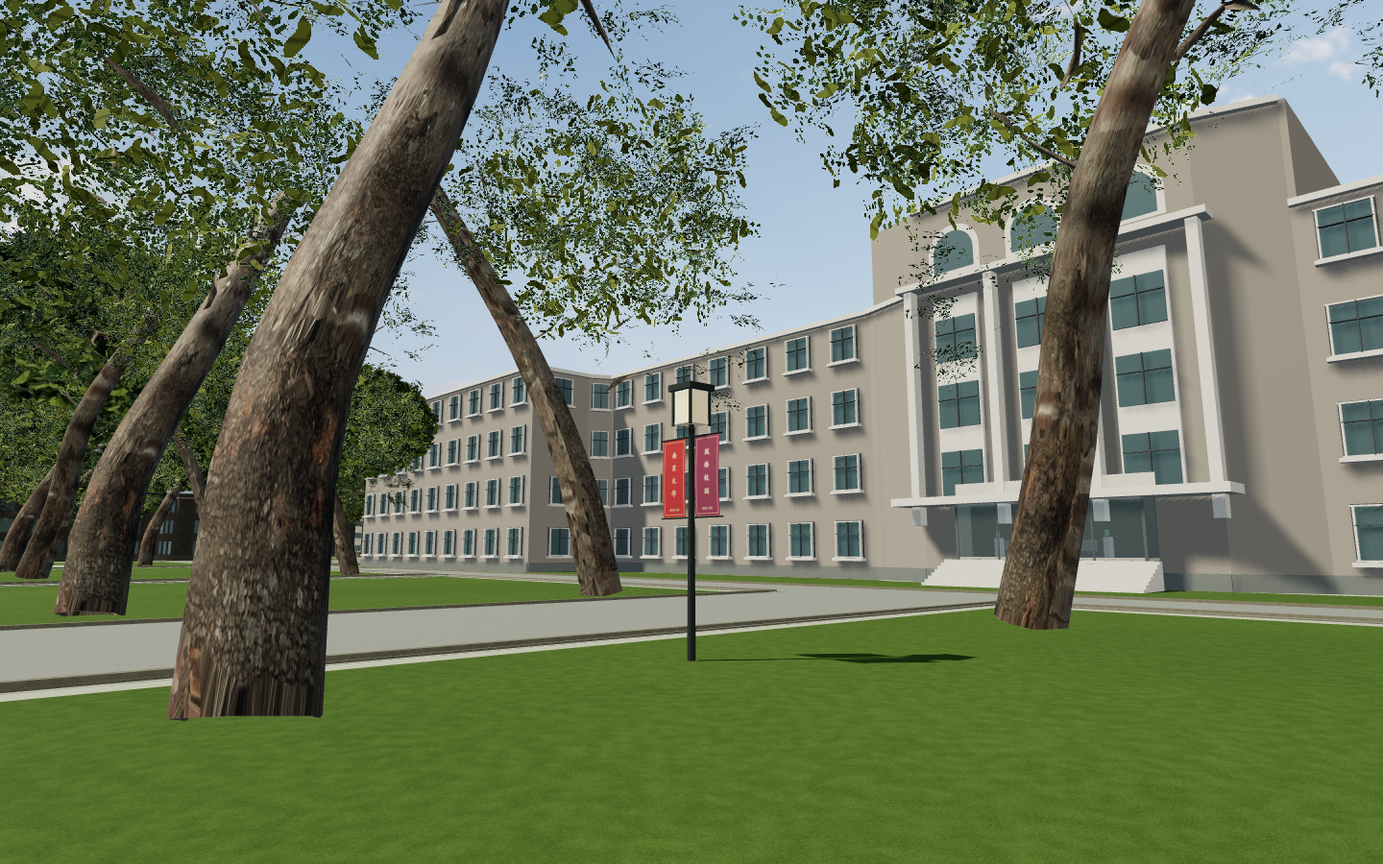
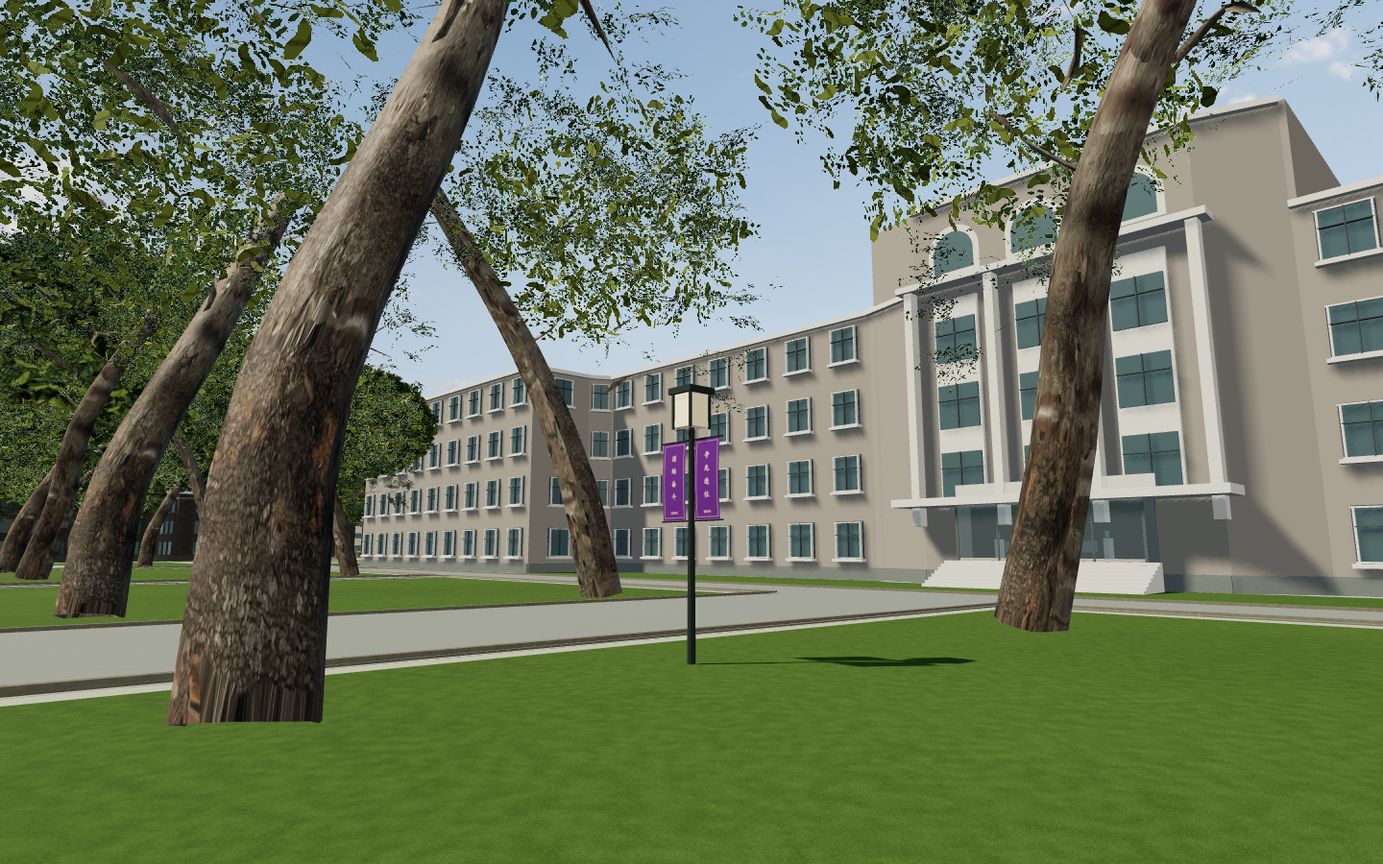
Add grounded jump, official campus stories and default raised flag

diff --git a/src/world/place-stories.ts b/src/world/place-stories.ts
@@ -1,0 +1,31 @@
+export type PlaceStory={summary:string;detail:string;source:string;sourceLabel:string};
+const vr='https://vr.nju.edu.cn/newUI/#/';
+const story=(summary:string,detail:string,source=vr,sourceLabel='南京大学官方校园导览'):PlaceStory=>({summary,detail,source,sourceLabel});
+/** Concise paraphrases of the named official source. Unverified places fall
+ * back to existing wayfinding text; no invented dates or building histories. */
+export const placeStories:Record<string,PlaceStory>={
+ '北大楼':story('北大楼建成于1919年，又称赛弗伦斯楼，最初是金陵大学行政楼，后来用于文学院教学。赛珍珠、胡小石等学者曾在这里执教。','中央塔楼、中式屋顶和西式体量相结合。百余年里，这座楼既是校园的视觉中心，也成为许多南大人与母校联结的记忆。','https://alumni.nju.edu.cn/aa/0a/c21691a502282/page.htm','南京大学校友网 · 北大楼百年故事'),
+ '东大楼':story('东大楼的前身是金陵大学科学馆，建成于1912年，是鼓楼校园早期建筑之一。','它与西大楼分列北大楼前庭两侧。中式屋顶和近代教学楼的结构组合，体现了金陵大学早期校园建筑的共同风格。','https://www.nju.edu.cn/info/3191/152251.htm','南京大学官网 · 金陵大学光阴的故事'),
+ '西大楼':story('西大楼建成于1925年，原名斐义理楼，曾供金陵大学农学院使用。','它与北大楼、东大楼共同构成校园最具辨识度的历史建筑群；观察屋顶、砖墙和楼体组合，可以看到中西建筑语言的结合。','https://www.nju.edu.cn/info/3191/152251.htm','南京大学官网 · 金陵大学光阴的故事'),
+ '大纛坪':story('这根旗杆源于金陵大学师生的一次爱国行动。1934年，邻近的日本公使馆竖杆悬旗，31位金大学生发起募捐，号召全校建起更高的国旗杆。1935年旗杆落成，以迎风国旗表达师生维护民族尊严的决心。','旗杆原在大礼堂南侧，1964年因建设教学楼迁至西南楼北侧。1995年抗战胜利50周年时，这里辟为“大纛坪”，并立碑记录这段历史。'),
+ '大礼堂':story('大礼堂于1920年投入使用，是金陵大学旧址的一部分。中式屋顶、灰色筒瓦与明代城墙砖构成了它熟悉的轮廓。','这里长期承载学校的重要会议、庆典和文艺演出。可留意屋顶两侧耳房与入口木门的传统纹样；建筑现为全国重点文物保护单位。'),
+ '教学楼／郑钢楼':story('北园教学楼建于1964年，位于校园中轴线上，正对汉口路校门。一届届学生在这里上课、自习，留下了共同的校园记忆。','为感谢郑钢先生捐资支持修缮改造，学校将其命名为“郑钢楼”。'),
+ '校史博物馆':story('这座馆舍原为金陵大学图书馆，由建筑师杨廷宝设计，1937年12月建成。它最初曾作为难民收容所，庇护两千余名难民。','中式重檐与当时先进的钢筋混凝土结构结合，是近代“中国固有式”建筑的代表。今天，校史博物馆在这里保存和讲述南大的历史。'),
+ '图书馆':story('鼓楼图书馆在原金陵大学图书馆馆舍基础上扩建，现代部分建于20世纪70年代。它与历史馆舍相连，书库连接南、西两翼。','馆内设有文理科借阅、报刊阅览、学科服务等空间。这里的现代阅览馆与原馆改设的校史博物馆，应分别辨认。'),
+ '蒙民伟楼':story('蒙民伟楼位于鼓楼校区北园东南角，曾是计算机实验和教学活动的重要场所。','楼名纪念蒙民伟先生及香港信兴集团对学校建设的捐助。内部功能会随学校发展调整，现阶段游戏只开放室外漫游。'),
+ '汉口路校门':story('汉口路校门建于1959年国庆期间，位于鼓楼校区南、北园之间。三开间浅灰色大门和毛体“南京大学”校名，是许多人走进南大的第一印象。','两侧立柱后来增添“团结紧张”“严肃活泼”字样。2018年，校门列入南京市第二批历史建筑保护名录。'),
+ '广州路校门':story('广州路校门位于鼓楼校区南园南部，地址为广州路18号，连接南园与广州路。','从门外可辨认石材牌墙上的“南京大学”和“广州路门”中英文校名；进入后可沿南园道路前往宿舍与教学区域。'),
+ '新教学楼':story('新教学楼位于教学楼东侧、东大楼与东南楼之间。经智慧教室改造后，它于2023年春季学期投入公共教学使用。','官方改造资料记载主楼五层、辅楼两层。智慧教室配置服务于讨论、授课和多样化教学。','https://jw.nju.edu.cn/33/b6/c24683a603062/page.htm','南京大学本科生院 · 教学楼位置说明'),
+ '南教学楼':story('南教学楼位于汉口路校门内警卫室东侧、图书馆南侧，2023年春季学期投入公共教学使用。','它与南园里的“南园教学楼”是两栋不同的建筑；从汉口路门进入北园后向右，可沿馆舍南侧道路到达。','https://jw.nju.edu.cn/33/b6/c24683a603062/page.htm','南京大学本科生院 · 教学楼位置说明'),
+ '知行楼':story('知行楼由1940—1945级原中央大学校友集体筹款助建，1992年建成，用于校友相聚。','楼名呼应陶行知先生“行是知之始，知是行之成”的理念，寄托知行合一的教育理想。'),
+ '东南楼':story('东南楼建于1953年，由南京大学建筑系教授杨廷宝设计，是新中国较早的民族式大屋顶教学楼。','其一层后来改为医学院临床模拟教学中心；2008年入选首批南京市重要近现代建筑。'),
+ '南园教学楼':story('南园教学楼位于南园中部、喷泉南侧。这里曾是鼓楼学子自修和参加毕业生招聘会的熟悉场所。','官方校园导览记载它后来用于终身教育学院办公教学；请与汉口路门内的“南教学楼”区分。'),
+ '松林楼':story('松林楼位于南园正门东侧，是一座三层砖混结构建筑，曾供相关院系教学和办公使用。','官方校园导览记载它后来作为校财务处办公地点。临园一侧的树荫与休憩空间连成安静的校园角落。'),
+ '南园八舍':story('南园八舍建于20世纪50年代，90年代曾加层改造，位于南园并面向广州路校门方向。','它曾被称为“华东最大女生楼”，是许多校友记忆中南园生活的重要一站。'),
+ '斗鸡闸':story('斗鸡闸是图书馆西北侧一座西班牙风格别墅，1934年兴建，毁于战火后于1945年重建。','五个相连拱门、米黄色外墙与蓝瓦屋顶构成鲜明特征。它现为江苏省文物保护单位。'),
+ '南园喷泉':story('南园喷泉位于宿舍群的中轴线上，是南园生活区的一处公共景观。','喷泉和周围绿地连接宿舍与校园道路，也是学习生活之外停留休息的地方。'),
+};
+export function getPlaceStory(name:string,fallback=''){
+ const key=name==='校史馆'?'校史博物馆':name==='教学楼丨郑钢楼'?'教学楼／郑钢楼':name==='广州路门'?'广州路校门':name;
+ return placeStories[key]??story(fallback||`这里是校园地图标注的${name}。`, '该处的详细校史介绍仍待补充；暂不开放室内。');
+}

diff --git a/index.html b/index.html
@@ -27,9 +27,10 @@
         <div class="location"><span class="location-line"></span><div><span id="location-name">北大楼</span><small>南京大学 · 鼓楼校区</small></div></div>
         <nav class="hud-actions" aria-label="游戏操作"><button id="map-open" aria-label="校园地图">⌖<span>地图 M</span></button><button id="flight-toggle" aria-label="起飞或降落">↗<span id="flight-label">起飞 F</span></button><button id="world-open" aria-label="时间与天气" title="时间与天气 T">◷<span id="clock-chip">15:00 · 晴</span></button><button id="photo-open" title="拍照模式 P" aria-label="拍照模式">▣<span>拍照</span></button><button id="settings-open" aria-label="打开设置">☷<span>设置</span></button></nav>
         <div class="compass" aria-label="方向"><span id="compass-arrow">↑</span><small>N</small></div>
-        <div id="hint" class="hint"><kbd>W A S D</kbd> <span id="movement-label">行走</span> <span>·</span> <kbd>Shift</kbd> 加速 <span>·</span> <kbd>V</kbd> 视角 <span>·</span> <kbd>P</kbd> 拍照</div>
+        <div id="hint" class="hint"><kbd>W A S D</kbd> <span id="movement-label">行走</span> <span>·</span> <kbd>Shift</kbd> 加速 <span>·</span> <kbd>Space</kbd> <span id="space-label">跳跃</span> <span>·</span> <kbd>V</kbd> 视角 <span>·</span> <kbd>P</kbd> 拍照</div>
         <div id="flight-hud" class="flight-hud" hidden><span id="flight-state">滑翔中</span><strong id="flight-altitude">26 m</strong><small>空格上升 · Ctrl 下降 · F 降落</small></div>
         <div id="boundary-hint" class="boundary-hint" hidden>已接近当前开放区域边缘，请转向校园</div>
+        <button id="place-about" class="place-about" hidden></button>
         <button id="interact" class="interact" hidden><kbd>E</kbd> <span>坐一会儿</span></button>
         <button id="resume" class="resume" hidden>点击画面，继续漫步</button>
 <div id="football-hud" hidden><span>苏浙球场练习 · 进球 <strong id="football-score">0</strong></span><button id="football-reset">球回中场</button><small id="football-help">靠近球按 E 踢球 · Shift 加力</small></div>
@@ -38,7 +39,7 @@
       <div id="touch-controls" hidden aria-label="触屏游戏操作">
         <div id="touch-stick" role="application" aria-label="移动摇杆"><div id="touch-knob"></div><span>移动</span></div>
         <span class="touch-look-hint">拖动画面环顾校园</span>
-        <div class="touch-buttons"><button id="touch-view" aria-label="切换第一第三人称">视角</button><button id="touch-run" aria-pressed="false">快走</button><button id="touch-fly">起飞</button></div>
+        <div class="touch-buttons"><button id="touch-view" aria-label="切换第一第三人称">视角</button><button id="touch-run" aria-pressed="false">快走</button><button id="touch-fly">起飞</button><button id="touch-jump">跳跃</button></div>
         <div id="touch-altitude" hidden><button data-hold-key="Space" aria-label="上升">↑</button><button data-hold-key="ControlLeft" aria-label="下降">↓</button></div>
       </div>
       <dialog id="settings" aria-labelledby="settings-title">
@@ -66,7 +67,7 @@
         <div class="dialog-actions"><button id="world-reset" class="subtle">恢复默认</button><button id="world-resume" class="primary">回到校园 →</button></div>
       </dialog>
       <dialog id="campus-map" aria-labelledby="map-title"><form method="dialog"><div class="dialog-heading"><div><small>WALK A LITTLE FURTHER</small><h2 id="map-title">一张校园地图</h2></div><button class="close" aria-label="关闭校园地图">×</button></div></form><div class="world-presets"><button data-map-region="all">全校</button><button data-map-region="core" aria-pressed="true">重点漫步路线</button><button data-map-region="south">南园</button></div><div class="map-travel"><select id="travel-place" aria-label="选择传送地点"><option value="">选一个熟悉的地方</option></select><button id="travel-place-go" class="subtle">前往</button></div><canvas id="map-canvas" aria-label="校园建筑道路与当前位置"></canvas><p id="map-selection"></p><div class="map-travel-actions"><button id="map-teleport" class="primary" disabled>传送到此处</button><button id="map-resume" class="subtle">继续漫步 →</button></div></dialog>
-      <dialog id="info" aria-labelledby="info-title"><form method="dialog"><button class="close" aria-label="关闭介绍">×</button></form><small>一处熟悉的风景</small><h2 id="info-title">北大楼</h2><p>长长的灰瓦屋面，在中央塔楼处向天空升起。中式屋顶与西式楼体在这里相遇，爬藤沿着砖墙舒展。</p><p>北大楼是金陵大学旧址的组成部分，也是南大学生与校友记忆中的校园地标。</p><a href="https://zh.wikipedia.org/wiki/北大楼" target="_blank" rel="noreferrer">阅读建筑资料 ↗</a></dialog>
+      <dialog id="info" aria-labelledby="info-title"><form method="dialog"><button class="close" aria-label="关闭介绍">×</button></form><small>校园介绍</small><h2 id="info-title">北大楼</h2><p>长长的灰瓦屋面，在中央塔楼处向天空升起。中式屋顶与西式楼体在这里相遇，爬藤沿着砖墙舒展。</p><p>北大楼是金陵大学旧址的组成部分，也是南大学生与校友记忆中的校园地标。</p><a href="https://zh.wikipedia.org/wiki/北大楼" target="_blank" rel="noreferrer">阅读建筑资料 ↗</a></dialog>
       <section id="photo-panel" hidden aria-label="拍照模式">
         <div class="photo-top"><span>留住这一刻 <small>PHOTO MODE</small></span><button id="photo-close">返回漫步 ×</button></div>
         <div class="photo-frame" aria-hidden="true"></div>

diff --git a/src/main.ts b/src/main.ts
@@ -1,6 +1,7 @@
 import './style.css';
 import type { Game, Quality } from './game/game.ts';
 import type { OutfitStyle } from './player/avatar.ts';
+import {getPlaceStory} from './world/place-stories.ts';
 import { locationName } from './world/place-index.ts';
 import { CampusMapView } from './ui/campus-map.ts';
 import { TouchControls, touchDevice } from './ui/touch-controls.ts';
@@ -66,6 +67,7 @@ async function boot() {
     if(e.shiftKey)game.player.keys.add('ShiftLeft');
     game.player.keys.add(e.code);
     if (e.repeat) return;
+    if(e.code==='Space'&&game.mode==='playing')game.player.requestJump();
     if (e.code === 'KeyM') el('map-open').click();
     if (e.code === 'KeyT') el('world-open').click();
     if (e.code === 'KeyV') { game.cameraRig.toggle(); toast(game.cameraRig.firstPerson ? '第一人称' : '第三人称'); }
@@ -145,6 +147,18 @@ async function boot() {
   el('football-reset').onclick = () => game.football.resetBall();
   el('football-help').textContent = touchDevice ? '靠近球点踢球 · 快走时可加力' : '靠近球按 E 踢球 · Shift 加力 · R 回球';
   if (!touchDevice) el('football-reset').setAttribute('aria-keyshortcuts', 'R');
+  const nearbyPlace=()=>{
+    const pos=game.player.position;
+    if(Math.hypot(pos.x+246,pos.z-112)<12&&pos.y<5)return{name:'大纛坪',description:''};
+    return game.world.doors.find(d=>Math.hypot(d.x-pos.x,d.z-pos.z)<7&&Math.abs(pos.y-d.y)<5)??campusPlaces.find(p=>Math.hypot(pos.x-p.x,pos.z-p.z)<9);
+  };
+  function showPlaceInfo(name:string,fallback=''){
+    const content=getPlaceStory(name,fallback),paragraphs=info.querySelectorAll('p');el('info-title').textContent=name;paragraphs[0].textContent=content.summary;paragraphs[1].textContent=content.detail;
+    const link=info.querySelector('a')!;link.href=content.source;link.textContent=content.sourceLabel+' ↗';game.mode='paused';game.player.clearInput();document.exitPointerLock?.();info.showModal();
+  }
+  const showNearbyInfo=()=>{const place=nearbyPlace();if(game.mode==='playing'&&place)showPlaceInfo(place.name,'description'in place?place.description:'');};
+  el('place-about').onclick=showNearbyInfo;
+  window.addEventListener('keydown',e=>{if(e.code==='KeyI'&&!e.repeat)showNearbyInfo();});
   function interact() {
     if(game.mode !== 'playing' || game.player.flying)return;
     if(game.player.riding){if(!game.player.dismount())toast('两侧空间不足，请移到开阔处再下车。');return;}
@@ -163,17 +177,19 @@ async function boot() {
     else {
       const entry=game.world.doors.find(d=>Math.hypot(d.x-game.player.position.x,d.z-game.player.position.z)<4&&Math.abs(game.player.position.y-d.y)<4);
       const place=(entry?{name:entry.name,description:'可以透过玻璃门看到门厅与门禁。室内暂未开放，后续将逐步加入进入建筑与室内探索。'}:undefined)??campusPlaces.find(p=>Math.hypot(game.player.position.x-p.x,game.player.position.z-p.z)<5.5);
-      if(place){el('info-title').textContent=place.name;const paragraphs=info.querySelectorAll('p');paragraphs[0].textContent=place.description;paragraphs[1].textContent='沿着树荫和道路继续走，还会遇见更多熟悉的地方。';const link=info.querySelector('a')!;link.href=place.name==='北大楼'?'https://zh.wikipedia.org/wiki/北大楼':'https://vr.nju.edu.cn/';game.mode='paused';game.player.clearInput();document.exitPointerLock?.();info.showModal();}
+      if(place)showPlaceInfo(place.name,place.description);
     }
   }
   el('interact').onclick = interact;
   game.onTick = () => {
     touchControls?.update(game.mode === 'playing' && !uiHidden, game.player.flying);
+    el('space-label').textContent=game.player.riding?'刹车':game.player.flying?'上升':'跳跃';
     if (++tick % 15) return;
     const pos = game.player.position, onBench = game.player.seated || (game.world.sectors >= 3 && (benchLocations.some(p => p.distanceTo(pos) < 2.4)||Boolean(game.world.garden.nearby(pos))));
     const nearBuilding = game.world.doors.find(d=>Math.hypot(d.x-pos.x,d.z-pos.z)<4&&Math.abs(pos.y-d.y)<4)??campusPlaces.find(p=>Math.hypot(pos.x-p.x,pos.z-p.z)<5.5);
     const nearBicycle=game.world.bicycles.some(b=>b.group.position.distanceTo(pos)<2.3);
     const nearFlag=game.world.dadaoping.nearby(pos);
+    const about=nearbyPlace();el('place-about').hidden=!about||game.mode!=='playing'||game.player.flying;el('place-about').textContent=about?`了解${about.name}${touchDevice?'':' · I'}`:'';
     const flagState=game.world.dadaoping.snapshot();
     const nearDirectory = game.world.directory.nearby(pos);
     el('interact').hidden = game.player.flying||game.mode !== 'playing' || (!nearFlag && !game.player.riding && !nearBicycle && !onBench && !nearBuilding && !nearDirectory && !game.football.canKick);

diff --git a/src/player/controller.ts b/src/player/controller.ts
@@ -17,7 +17,10 @@ export class Player {
   readonly position = spawn.clone();
   keys = new Set<string>();
   readonly moveInput = new T.Vector2();
-  clearInput() { this.keys.clear(); this.moveInput.set(0, 0); }
+  clearInput() { this.keys.clear(); this.moveInput.set(0, 0); this.jumpRequest=0; }
+  grounded=false;
+  private jumpRequest=0;
+  requestJump(){if(!this.riding&&!this.flying&&!this.seated)this.jumpRequest=.12;}
   velocityY = 0;
   speed = 0;
   riding:CampusBicycle|null=null;
@@ -137,6 +140,7 @@ export class Player {
   private finishFlight(){this.flightState='walking';this.flightVelocity.set(0,0,0);this.velocityY=0;this.motor.enableAutostep(.3,.2,false);this.motor.enableSnapToGround(.4);this.glider.visible=false;this.avatar.root.rotation.z=0;}
   reset() { this.parkBicycle();this.finishFlight();this.teleport(spawn.x, spawn.y, spawn.z); this.seated = false; this.clearInput(); this.avatar.root.rotation.y = 0; }
   teleport(x: number, y: number, z: number) {
+    this.grounded=false;this.jumpRequest=0;
     this.position.set(T.MathUtils.clamp(x, bounds.minX + 1, bounds.maxX - 1), Math.max(.03, terrainHeight(x,z)+.035, y), T.MathUtils.clamp(z, bounds.minZ + 1, bounds.maxZ - 1));
     this.body.setTranslation({ x: this.position.x, y: this.position.y + .86, z: this.position.z }, true);
     this.body.setNextKinematicTranslation({ x: this.position.x, y: this.position.y + .86, z: this.position.z }); this.velocityY = 0; this.previous.copy(this.position); this.avatar.root.position.copy(this.position);
@@ -177,11 +181,15 @@ export class Player {
     this.accumulated = Math.min(this.accumulated + dt, .1); this.previous.copy(this.position);
     while (this.accumulated >= 1 / 60) {
       const step = 1 / 60; this.accumulated -= step;
-      this.velocityY = Math.max(-18, this.velocityY - 9.81 * step);
-      const movement = this.flying?{x:active?this.flightVelocity.x*step:0,y:active?this.flightVelocity.y*step:0,z:active?this.flightVelocity.z*step:0}:{ x: this.direction.x * desired * step, y: this.velocityY * step, z: this.direction.z * desired * step };
+      if(active){
+        if(this.jumpRequest>0&&this.grounded&&!this.riding&&!this.flying&&!this.seated){this.velocityY=4.8;this.grounded=false;this.jumpRequest=0;}
+        this.jumpRequest=Math.max(0,this.jumpRequest-step);
+        this.velocityY = Math.max(-18, this.velocityY - 9.81 * step);
+      }
+      const movement = !active?{x:0,y:0,z:0}:this.flying?{x:this.flightVelocity.x*step,y:this.flightVelocity.y*step,z:this.flightVelocity.z*step}:{ x: this.direction.x * desired * step, y: this.velocityY * step, z: this.direction.z * desired * step };
       if (this.noclip) { movement.y = (Number(this.keys.has('Space')) - Number(this.keys.has('ControlLeft'))) * desired * step; this.velocityY = 0; }
       let move = movement;
-      if (!this.noclip && !this.seated) { this.motor.computeColliderMovement(this.collider, movement); move = this.motor.computedMovement(); if (this.motor.computedGrounded()) {this.velocityY = -.5;if(this.flying&&movement.y<0)this.finishFlight();} }
+      if (!this.noclip && !this.seated) { this.motor.computeColliderMovement(this.collider, movement); move = this.motor.computedMovement(); if(active)this.grounded=this.motor.computedGrounded();if(this.grounded&&movement.y<=0&&active) {this.velocityY = -.5;if(this.flying&&movement.y<0)this.finishFlight();}if(active&&movement.y>0&&move.y<movement.y*.25)this.velocityY=Math.min(0,this.velocityY); }
       if (this.seated) move = { x: 0, y: 0, z: 0 };
       const current = this.body.translation();
       const next = { x: T.MathUtils.clamp(current.x + move.x, bounds.minX + .75, bounds.maxX - .75), y: Math.min(current.y + move.y,maxFlightAltitude+.86), z: T.MathUtils.clamp(current.z + move.z, bounds.minZ + .75, bounds.maxZ - .75) };
@@ -200,6 +208,6 @@ export class Player {
     if(this.riding){
       this.pedalPhase+=this.speed*dt*1.6*Math.sign(this.rideSpeed);this.riding.group.position.copy(this.position);this.riding.group.rotation.y=this.rideYaw;this.avatar.root.rotation.y=this.rideYaw;this.riding.update(this.speed*dt*Math.sign(this.rideSpeed),this.pedalPhase,this.rideSteering);
     }
-    this.avatar.update(dt, this.speed, this.seated,this.flying,this.seatHeight-this.position.y,this.riding?this.pedalPhase:undefined,this.rideSteering);
+    this.avatar.update(dt, this.speed, this.seated,this.flying,this.seatHeight-this.position.y,this.riding?this.pedalPhase:undefined,this.rideSteering,!this.grounded&&Math.abs(this.velocityY)>.6);
   }
 }

diff --git a/src/world/lamp-banners.ts b/src/world/lamp-banners.ts
@@ -1,29 +1,29 @@
 import * as T from 'three';
 import {Builder} from './geometry.ts';
 
-/** Paired vertical banners visible at 00:55 in BV1iL411h7G2.
- * Text is original campus wayfinding, not a reproduction of dated event ads. */
+/** Paired banners; purple treatment requested by the user. Wording verified
+ * against NJU's 2023-02-14 奋进行动 announcement. Placements approximate. */
 export function createLampBanners(spots:number[][],metal:T.Material){
   const b=new Builder();
-  const materials=['南京大学','鼓楼校园'].map((text,index)=>{
+  const materials=['团结奋斗','争先进位','坐言起行','应势而动'].map((text)=>{
     const canvas=document.createElement('canvas');canvas.width=256;canvas.height=640;
-    const c=canvas.getContext('2d')!;c.fillStyle=index?'#854058':'#a83a3b';c.fillRect(0,0,256,640);
+    const c=canvas.getContext('2d')!;c.fillStyle='#652e83';c.fillRect(0,0,256,640);
     c.strokeStyle='#d2b986';c.lineWidth=3;c.strokeRect(17,18,222,604);
     c.fillStyle='#f1e5bf';c.textAlign='center';c.textBaseline='middle';c.font='58px "Kaiti SC",serif';
     [...text].forEach((letter,i)=>c.fillText(letter,128,126+i*105));
-    c.font='18px system-ui';c.fillText('GULOU · NJU',128,580);
+    c.font='18px system-ui';c.fillText('奋进行动',128,580);
     const map=new T.CanvasTexture(canvas);map.colorSpace=T.SRGBColorSpace;map.anisotropy=4;
     return new T.MeshStandardMaterial({name:'campus-lamp-banner',map,roughness:.96,side:T.FrontSide});
   });
-  for(const[x,z]of spots)for(const side of[-1,1]){
+  for(const[index,[x,z]]of spots.entries())for(const side of[-1,1]){
     const bx=x+side*.38;
     for(const y of[2.15,3.4])b.cylinder(new T.Vector3(x,y,z),new T.Vector3(x+side*.70,y,z),.013,.013,metal,6);
     // Separate front/back faces keep the lettering readable on both approaches.
     const geometry=new T.PlaneGeometry(.54,1.22,3,8),p=geometry.getAttribute('position');
     for(let i=0;i<p.count;i++)p.setZ(i,Math.sin((p.getY(i)+.61)*Math.PI/1.22)*.025);
     geometry.computeVertexNormals();
-    for(const face of[-1,1])b.add(geometry.clone(),materials[side<0?0:1],bx,2.775,z+face*.012,new T.Euler(0,face<0?Math.PI:0,0));
+    for(const face of[-1,1])b.add(geometry.clone(),materials[(index%2)*2+(side<0?0:1)],bx,2.775,z+face*.012,new T.Euler(0,face<0?Math.PI:0,0));
   }
-  const group=b.finish('paired campus lamp banners');group.userData={poles:spots.length,source:'BV1iL411h7G2 00:55; original wayfinding text; approximate placement'};
+  const group=b.finish('paired campus lamp banners');group.userData={poles:spots.length,source:'https://www.nju.edu.cn/info/3181/98441.htm; user purple-banner reference; approximate placement',slogans:['团结奋斗','争先进位','坐言起行','应势而动']};
   return group;
 }

diff --git a/src/game/game.ts b/src/game/game.ts
@@ -204,7 +204,7 @@ export class Game {
     this.onTick();
   }
   stats() {
-    return { mode: this.mode, renderSize: [this.renderer.domElement.width, this.renderer.domElement.height], pixelRatio: this.renderer.getPixelRatio(), fps: Math.round(1000 / this.frameMs), frameMs: +this.frameMs.toFixed(2), cpuMs: +this.cpuMs.toFixed(2), gpuMs: this.gpuMs == null ? null : +this.gpuMs.toFixed(2), triangles: this.renderer.info.render.triangles, drawCalls: this.renderer.info.render.calls, textures: this.renderer.info.memory.textures, geometries: this.renderer.info.memory.geometries, position: this.player.position.toArray(), sectors: this.world.sectors, quality: this.quality, character: this.character, outfit: this.outfit, firstPerson: this.cameraRig.firstPerson, readyMs: Math.round(this.readyMs),flight:this.player.flightState,bicycle:this.player.riding?.id??null,rideSpeed:this.player.rideSpeed,flag:this.world.dadaoping.snapshot(),traffic:this.traffic.snapshot(),environment:this.atmosphere.snapshot,music:this.music.snapshot,audio:this.audio.snapshot,football:this.football.snapshot,map:{buildings:this.world.map.features.filter(f=>f.tags.building).length,roads:this.world.map.roads.length} };
+    return { mode: this.mode, renderSize: [this.renderer.domElement.width, this.renderer.domElement.height], pixelRatio: this.renderer.getPixelRatio(), fps: Math.round(1000 / this.frameMs), frameMs: +this.frameMs.toFixed(2), cpuMs: +this.cpuMs.toFixed(2), gpuMs: this.gpuMs == null ? null : +this.gpuMs.toFixed(2), triangles: this.renderer.info.render.triangles, drawCalls: this.renderer.info.render.calls, textures: this.renderer.info.memory.textures, geometries: this.renderer.info.memory.geometries, position: this.player.position.toArray(), sectors: this.world.sectors, quality: this.quality, character: this.character, outfit: this.outfit, firstPerson: this.cameraRig.firstPerson, readyMs: Math.round(this.readyMs),flight:this.player.flightState,grounded:this.player.grounded,verticalSpeed:this.player.velocityY,bicycle:this.player.riding?.id??null,rideSpeed:this.player.rideSpeed,flag:this.world.dadaoping.snapshot(),traffic:this.traffic.snapshot(),environment:this.atmosphere.snapshot,music:this.music.snapshot,audio:this.audio.snapshot,football:this.football.snapshot,map:{buildings:this.world.map.features.filter(f=>f.tags.building).length,roads:this.world.map.roads.length} };
   }
   async savePhoto() {
     if (this.photoSaving) throw new Error('照片正在生成，请稍候。');

diff --git a/src/player/avatar.ts b/src/player/avatar.ts
@@ -103,7 +103,7 @@ export async function createAvatar(kind: CharacterKind = 'male') {
     kick() { kickTime = .32; },
     setGroundSampler(sampler:(x:number,z:number)=>number){groundSampler=sampler;},
     get gaitPhase(){return phase;},
-    update(dt: number, speed: number, seated: boolean, flying=false, seatHeight=.55, cyclingPhase?:number, steering=0) {
+    update(dt: number, speed: number, seated: boolean, flying=false, seatHeight=.55, cyclingPhase?:number, steering=0,airborne=false) {
       moving = T.MathUtils.damp(moving, Math.min(1, speed / .5), 12, dt);
       const running = T.MathUtils.clamp((speed - 2) / 2.2, 0, 1);
       idle.weight = 1 - moving; walk.weight = moving * (1 - running); run.weight = moving * running;
@@ -151,6 +151,7 @@ export async function createAvatar(kind: CharacterKind = 'male') {
         root.updateMatrixWorld(true);return;
       }
       if(flying){kickTime=0;model.rotation.x=-.16;for(const side of ['Left','Right']){bones[side+'Arm'].quaternion.copy(rotation(side+'Arm',-1.1));bones[side+'ForeArm'].quaternion.copy(rotation(side+'ForeArm',-.5));bones[side+'UpLeg'].quaternion.copy(rotation(side+'UpLeg',.17));bones[side+'Leg'].quaternion.copy(rotation(side+'Leg',.35));}return;}
+      if(airborne&&!seated){kickTime=0;for(const side of['Left','Right']){bones[side+'UpLeg'].quaternion.copy(rotation(side+'UpLeg',-.25));bones[side+'Leg'].quaternion.copy(rotation(side+'Leg',.5));bones[side+'Arm'].quaternion.copy(rotation(side+'Arm',-.35));bones[side+'ForeArm'].quaternion.copy(rotation(side+'ForeArm',-.55));}return;}
       if (seated) {
         kickTime=0;model.position.y=baseY+seatHeight+.08-hipRestHeight;root.updateMatrixWorld(true);
         const facing=new T.Vector3(0,0,-1).applyQuaternion(root.getWorldQuaternion(new T.Quaternion()));

diff --git a/src/world/dadaoping.ts b/src/world/dadaoping.ts
@@ -24,9 +24,9 @@ export function createDadaoping(mats:Materials){
   for(const[dx,dz]of[[-3.8,-3],[3.8,-3],[0,4]])b.cylinder(new T.Vector3(x,11.8,z),new T.Vector3(x+dx,.18,z+dz),.009,.009,mats.metal,4);
   const group=b.finish('大纛坪 · flagpole and stone square');
   group.userData.reference='official gl-2-07/47; local walk 29:00; dimensions estimated';
-  const clock={value:0},flag=nationalFlag(clock);flag.scale.setScalar(1.35);flag.position.set(x+.14,2.10,z);group.add(flag);
+  const clock={value:0},flag=nationalFlag(clock);flag.scale.setScalar(1.35);flag.position.set(x+.14,12.90,z);group.add(flag);
   const rope=new T.Mesh(new T.CylinderGeometry(.009,.009,12.5,5),mats.wood);rope.position.set(x+.16,7.45,z-.12);group.add(rope);
-  let progress=0,target=0;
+  let progress=1,target=1;
   const nearby=(p:{x:number;y:number;z:number})=>p.y<.7&&Math.hypot(p.x-x,p.z-z)<3.7;
   const toggle=()=>{target=target===1?0:1;return target===1;};
   const update=(dt:number,active:boolean)=>{if(!active)return;clock.value+=dt;progress=T.MathUtils.clamp(progress+Math.sign(target-progress)*Math.min(Math.abs(target-progress),dt/12),0,1);flag.position.y=2.10+progress*10.8;};

diff --git a/src/ui/touch-controls.ts b/src/ui/touch-controls.ts
@@ -17,6 +17,7 @@ export class TouchControls {
   constructor(private player: Player, camera: WalkCamera, canvas: HTMLCanvasElement) {
     if (!touchDevice) return;
     document.documentElement.classList.add('touch-device');
+    document.getElementById('touch-jump')!.onclick=()=>{if(this.active)this.player.requestJump();};
     const move = (e: PointerEvent) => {
       const r = this.stick.getBoundingClientRect(), radius = r.width * .34;
       let x = (e.clientX - r.left - r.width / 2) / radius, y = (e.clientY - r.top - r.height / 2) / radius;
@@ -62,6 +63,7 @@ export class TouchControls {
     if (!touchDevice) return;
     if (this.active && !active) this.releaseAll(); this.active = active; this.root.hidden = !active;
     if(active&&this.running)this.player.keys.add('ShiftLeft');
+    document.getElementById('touch-jump')!.hidden=flying||Boolean(this.player.riding)||this.player.seated;
     document.getElementById('touch-run')!.textContent=this.player.riding?'加速':'快走';
     document.getElementById('touch-altitude')!.hidden = !flying;
     document.getElementById('touch-fly')!.textContent = flying ? '降落' : '起飞';

diff --git a/src/style.css b/src/style.css
@@ -20,3 +20,7 @@
 @media(max-width:650px){.map-travel{flex-wrap:wrap}.map-travel input[type=search]{flex-basis:100%;width:100%}.map-travel select{width:calc(100% - 64px)}}
 
 .university-emblem{width:44px;height:67px;object-fit:contain;flex:none}.masthead .wordmark{gap:16px}
+
+#touch-jump{grid-column:1 / span 2;border-radius:20px!important;min-height:38px!important} .touch-device #touch-altitude{bottom:205px}
+
+.place-about{pointer-events:auto;position:absolute;bottom:178px;left:50%;transform:translateX(-50%);background:#254234df;color:#f4f1df;padding:9px 14px;border:1px solid #ffffff44;border-radius:5px;font-size:12px}.touch-device .place-about{bottom:222px;max-width:65vw;min-height:40px}#info p{line-height:1.9}#info a{display:block;margin-top:22px;font-size:12px}

diff --git a/README.md b/README.md
@@ -20,16 +20,35 @@
 
 欢迎通过 [Issues](https://github.com/wang-jiahao/gulou/issues) 交流，或提交 Pull Request，一起把这个游戏慢慢做完整。
 
+## 建筑精修进度
+
+以下记录已经做过的建模工作，不表示与现实完全一致。每个通过验证的版本都会更新本地 Git；当前仓库保持私有，开发更新不自动推送或发布。
+
+| 建筑／区域 | 已完成的细化 | 后续重点 |
+| --- | --- | --- |
+| 北大楼 | 独立模型、塔楼与屋顶、门窗、爬藤、入口台阶、前庭高差 | 侧后立面和高程继续核对 |
+| 东大楼、西大楼、大礼堂 | 独立屋顶与立面模型、门窗和校园位置 | 可见细部、材质与入口空间 |
+| 汉口路门 | 门楣与柱面字样、挑檐、石材、门卫窗、闸机和道路 | 周边绿化及年代不同的设施 |
+| 图书馆／校史博物馆 | 现代馆百叶、玻璃门厅与台阶；老馆屋顶、红窗和内院 | 改造后立面、左上角题字仍待确认 |
+| 广州路门 | 视频核实的中英文石材牌墙、值班亭、石墩、通道 | 门旁绿化、亭体与校外街景 |
+| 教学楼／郑钢楼 | 中央三拱窗、立面分段、玻璃入口和台阶 | 细部比例与窗格继续核对 |
+| 逸夫馆 | 高主体与低入口连接部、门厅、窗格 | 院落、侧翼与入口层次 |
+| 费彝民楼、蒙民伟楼 | 主楼／裙楼分段、冠部、入口和窗格 | 费彝民楼开口等细节正在复核 |
+| 新教学楼、南教学楼 | 独立体量、层数、窗格与入口 | 位置和外观正在重新核实，尚未对齐 |
+| 南园二舍、松林楼及其他宿舍 | 入口门牌、窗格、阳台／空调、局部玻璃立面和车棚 | 逐栋细化未见侧与设备位置 |
+| 南园教学楼、各餐厅 | 分别制作体量与入口、补屋顶／窗格 | 独立室外参考仍需补充 |
+
 ## 现在可以玩什么
 
-- 在鼓楼校区自由漫步、慢跑，切换第一／第三人称。
+- 在鼓楼校区自由漫步、慢跑，按空格跳跃，切换第一／第三人称；手机可点“跳跃”。
+- 靠近地点按 I 或点击“了解……”阅读依据官方资料整理的校园故事。
 - 从北大楼经过大礼堂、教学楼、中大路和汉口路校门，继续走进南园。
 - 起飞、滑翔、俯瞰校园，再找一处地方降落。
 - 看白天变成夜晚，手动切换时间，或者听着真实雨声遇上一场阵雨。
 - 在地图查看逐栋编号、搜索建筑和宿舍，快速前往入口；左上角显示所在建筑或附近地点。
 - 在四处宿舍车棚旁按 E 骑自行车，W 前进、鼠标或 A/D 转向、S 减速／倒车、空格刹车、Shift 加速、E 下车；手机可用摇杆和互动按钮。
 - 走到南园导览栏，按 E 或点击手机提示查看南园地图。
-- 在大纛坪旗杆旁按 E 或点击提示，升起国旗，再次操作可降下。
+- 在大纛坪旗杆旁按 E 或点击提示，降下或再次升起国旗，进入校园时默认已升起。
 - 沿汉口路、广州路门外的人行道散步，看车辆在人行横道前停车让行。
 - 经过人行闸机时自动开门，靠近车辆道闸时抬杆，离开后关闭。
 - 切换男生／女生形象与三套日常穿搭，坐一会儿，保存最长边 2048 像素的照片。
@@ -38,7 +57,9 @@
 - 在苏浙运动场踢球练习：靠近足球轻踢或加力射门，进球计数，也可一键把球送回中场。
 - 导入喜欢的本地音乐，在校园里随机轮播。
 
-本地 v0.17 继续按视频和官方照片细化逸夫馆、费彝民楼、蒙民伟楼、教学楼及食堂的体量与入口，补充图书馆百叶和门厅、广州路门双语石材牌墙、两条校外道路及人行道。多数普通建筑已有玻璃门和可见门禁，室内暂未开放。骑行支持更明显的加速、鼠标转向和倒车；大纛坪可以升降旗，飞行远景保留完整树冠，部分路灯增加双侧竖幅。尺寸和缺少清晰资料的立面仍为近似重建。
+本地 v0.18 加入步行跳跃、默认升旗和官方校园介绍，将路灯竖幅改为紫色“奋进行动”标语。建筑高差、题字及运动区域按最新反馈继续核实。
+
+v0.17 已按视频和官方照片细化逸夫馆、费彝民楼、蒙民伟楼、教学楼及食堂的体量与入口，补充图书馆百叶和门厅、广州路门双语石材牌墙、两条校外道路及人行道。多数普通建筑已有玻璃门和可见门禁，室内暂未开放。骑行支持更明显的加速、鼠标转向和倒车；大纛坪可以升降旗，飞行远景保留完整树冠，部分路灯增加双侧竖幅。尺寸和缺少清晰资料的立面仍为近似重建。
 
 当前版本包含南园、北园的整体粗模，重点制作北大楼及周边路线，补充了紫峰大厦。普通建筑、部分尺寸和植被位置仍是依据资料的近似重建，欢迎熟悉校园的同学指出不准确的地方。
 
@@ -51,11 +72,11 @@
 
 ![大纛坪升旗](docs/images/dadaoping-flag.png)
 
-靠近旗杆按 E 或点击提示，约 12 秒升到顶部，再次操作可以降下；设置和拍照时暂停。
+靠近旗杆按 E 或点击提示，默认已升到顶部；约 12 秒完成升降，再次操作可以反向；设置和拍照时暂停。
 
 ![路灯两侧的校园竖幅](docs/images/lamp-banners.png)
 
-先补入视频中可见的双侧竖幅形式，使用“南京大学／鼓楼校园”导览文字。其他路边设施将随参考资料逐步加入。
+先补入视频中可见的双侧竖幅形式，现按用户反馈改为紫色，采用官方“团结奋斗、争先进位、坐言起行、应势而动”标语。其他路边设施将随参考资料逐步加入。
 
 ![俯瞰校园的完整树冠](docs/images/flight-canopies.png)
 
@@ -226,6 +247,7 @@
 
 - **继续精修汉口路校门**：在现有梁柱、门卫房、校名、国旗和铺装的基础上，继续校对尺寸、绿化和细部。
 - **扩展到南京大学四个校区**：鼓楼、仙林、浦口、苏州，逐步连成更完整的南大校园体验。
+- **宣传片与简短介绍**：待主要地标和游玩体验较完善后，分镜头采集北大楼、汉口路门、教学楼、图书馆等场景，以及漫步、骑行、俯瞰画面，再统一剪辑；宣传词保持简洁。素材与成片先保存在本地，发布另行决定。
 - **完善鼓楼校区周边**：继续制作周围建筑、街道、地铁站及出入口，让校园与附近的城市环境逐步衔接。
 - **走进建筑内部**：进入教学楼、图书馆、食堂、宿舍与礼堂，探索有辨识度的室内空间。
 - **让场所拥有对应的玩法**：已有操场单人踢球练习，继续扩展足球玩法、篮球、图书馆阅读和礼堂活动。

diff --git a/docs/asset_sources.md b/docs/asset_sources.md
@@ -119,3 +119,11 @@
 - 中大路一带9根既有灯杆新增双侧竖幅，形态参考BV1iL411h7G2的00:55与02:00。文字“南京大学／鼓楼校园”为原创导览内容，并非复刻画面中的临时活动标语；具体布点和尺寸为近似。
 - 远景树冠由同一Poly Haven Tree Small 02 CC0模型及原有CC0叶片烘焙9方向图集（四侧、四个45度方向及俯视）。scripts/bake-tree-canopies.mjs和scripts/canopy-bake.html可重新生成，分发的是许可明确的游戏资产，不是校园参考照片。
 - 教务处楼栋教室PDF可确认新教学楼有501—503教室、南教学楼有101/102/201/202，因此分别采用五层与两层；室内教室资料不被当作完整外立面依据。
+
+## 本地 v0.18 校园故事与玩法
+
+- 大纛坪、教学楼、图书馆、校史博物馆等20则介绍为南京大学官方VR公开文字的压缩转述（https://vr.nju.edu.cn/newUI/#/；大纛坪note110，礼堂111，教学楼113，校史馆124，图书馆125等），不是模型生成的虚构故事。原始响应与既有缓存只留本机。新/南教学楼另引教务处2023-02-08位置说明。
+- 路灯竖幅按用户记忆改为紫色，四组标语经南京大学2023-02-14官网公告确认：https://www.nju.edu.cn/info/3181/98441.htm 。具体灯杆分布和布幅尺寸仍为近似。
+- 新发现的资产管理处2024校园图、用户新增的题字/俯瞰照片用于后续几何修正，原PDF和照片留references/phase19；尚未实施的高差、建筑及运动场变更不能写成已完成。
+
+- 北大楼介绍依据南京大学校友网2020-11-20文章https://alumni.nju.edu.cn/aa/0a/c21691a502282/page.htm；东/西大楼依据南京大学官网https://www.nju.edu.cn/info/3191/152251.htm，均实际读取。大纛坪旗杆竣工月份在官方材料中有8月/10月差异，游戏只写已一致确认的1935年，不把月度差异当作定论。
